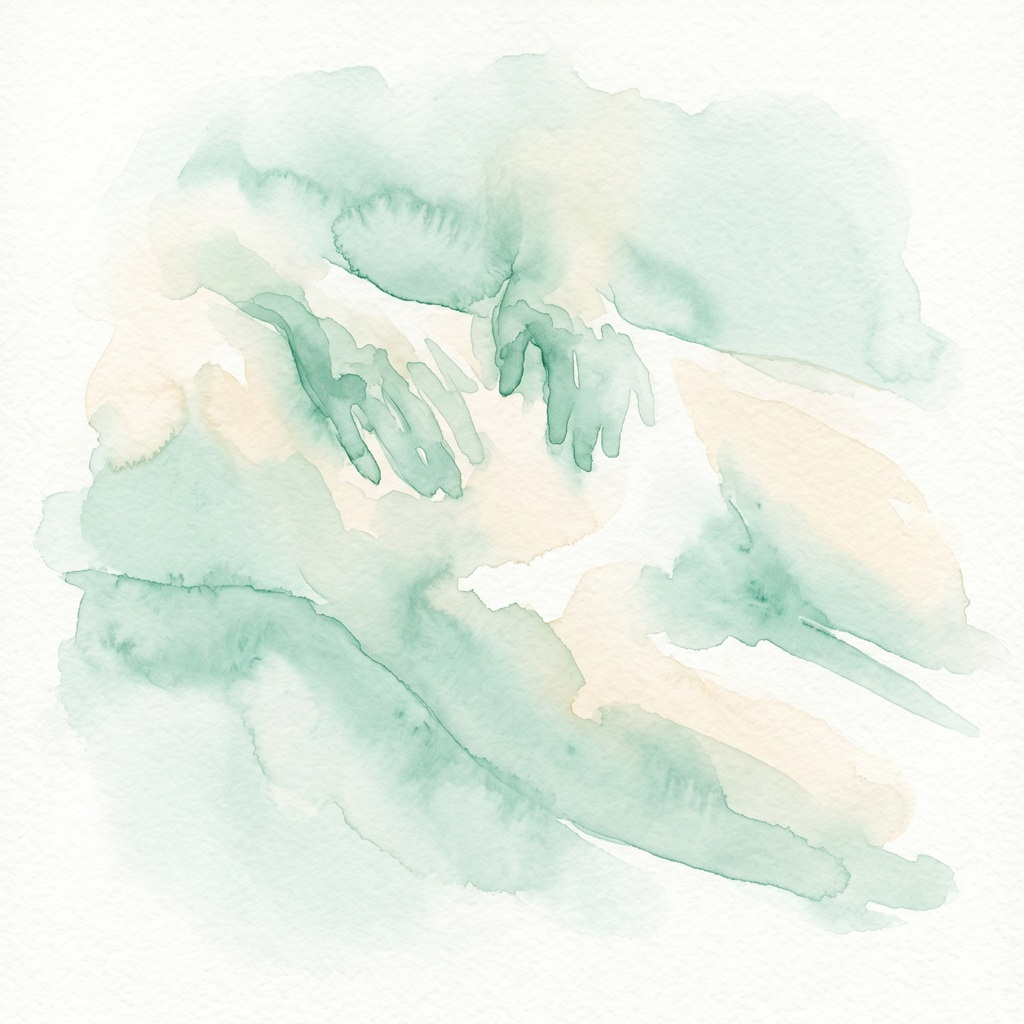
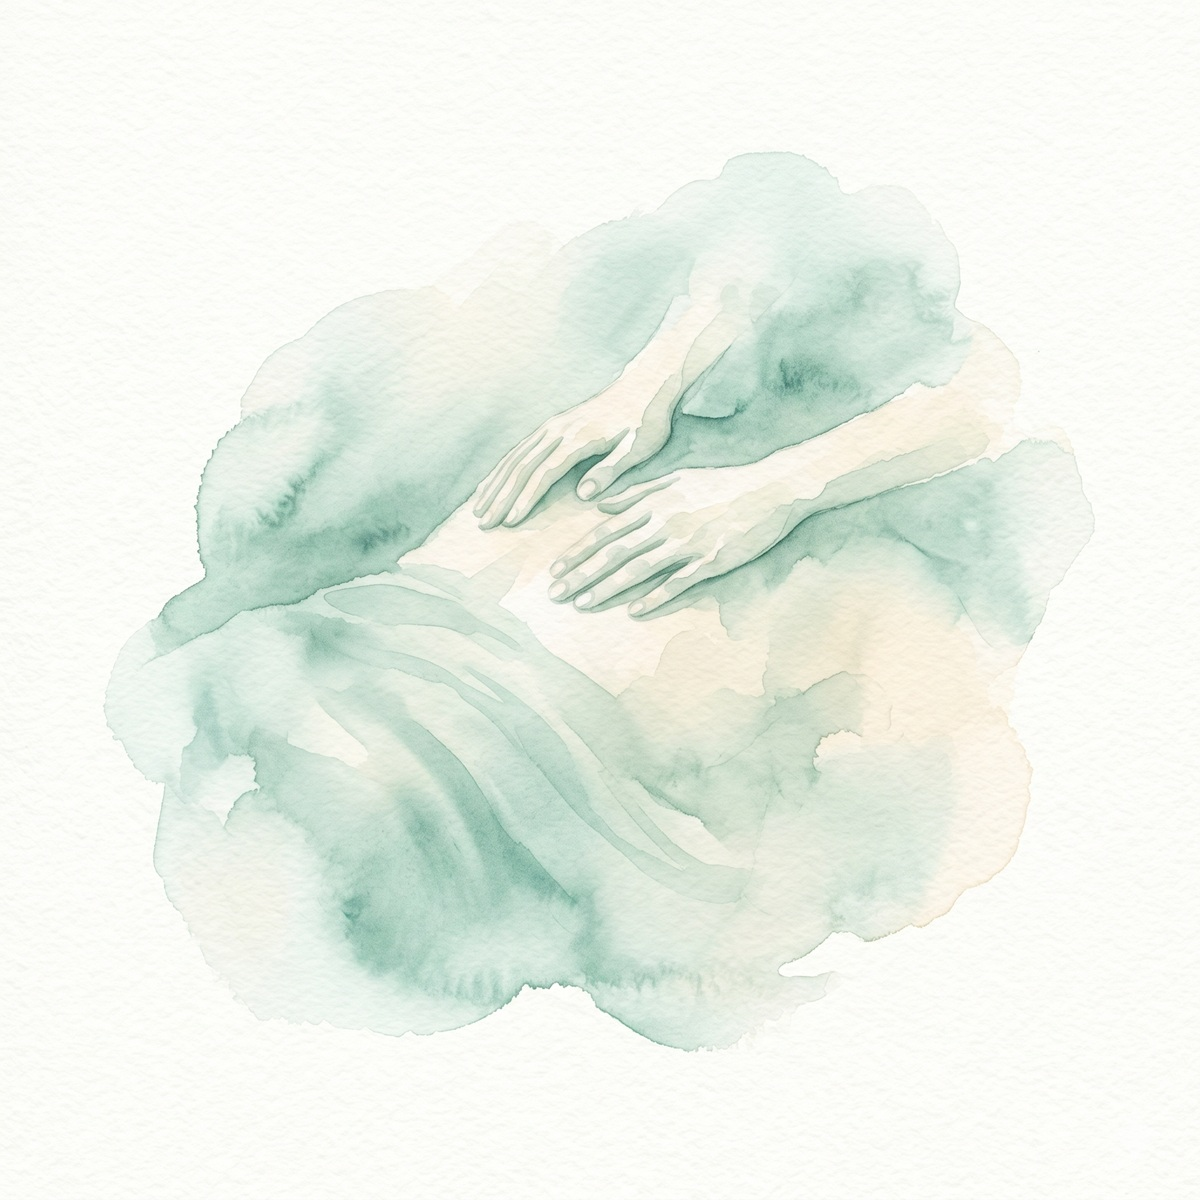
shiatsu image, title font, remove scroll snap, rearrange intro section

diff --git a/src/scripts/home-scroll.ts b/src/scripts/home-scroll.ts
@@ -2,14 +2,8 @@
  * home-scroll.ts — GSAP scroll choreography for the home page.
  *
  * Behaviours:
- * 1. Section-snap: wheel/touch "ticks" jump Lenis to the next major section
- *    with a graceful ease. In-between there is a brief lock so the snap
- *    completes before the next one fires — giving the "gentle chapter jump"
- *    feel while preserving Lenis inertia within a section.
- *
- * 2. Therapy triptych: image scale 1.0 → 1.08 on scroll (scrub).
- *
- * 3. Accent overlay: fades in/out as section enters viewport.
+ * 1. Therapy triptych: image scale 1.0 → 1.08 on scroll (scrub).
+ * 2. Accent overlay: fades in/out as section enters viewport.
  *
  * Disabled when prefers-reduced-motion: reduce.
  */
@@ -17,141 +11,6 @@ import gsap from 'gsap';
 import { ScrollTrigger } from 'gsap/ScrollTrigger';
 
 gsap.registerPlugin(ScrollTrigger);
-
-/* ─────────────────────────────────────────────────────────────
-   1. Section-snap (gentle chapter jumps)
-───────────────────────────────────────────────────────────── */
-
-function initSectionSnap() {
-  // Collect snap targets — identity + each therapy teaser + blog + closing
-  const SNAP_SELECTORS = [
-    '.identity',
-    '.therapy-teaser',
-    '.blog-teaser',
-    '.closing-section',
-  ] as const;
-
-  const sections = Array.from(
-    document.querySelectorAll<HTMLElement>(SNAP_SELECTORS.join(', ')),
-  ).filter(Boolean);
-
-  if (sections.length < 2) return;
-
-  const lenis = (window as unknown as Record<string, unknown>).__lenis as
-    | {
-        scrollTo: (target: number, opts: { duration: number; easing: (t: number) => number }) => void;
-        scroll: number;
-        on: (event: string, cb: (e: { scroll: number }) => void) => void;
-        stop: () => void;
-        start: () => void;
-      }
-    | undefined;
-
-  if (!lenis) return; // safety guard (reduced-motion path has no Lenis)
-
-  let isSnapping = false;
-  let currentIndex = 0;
-
-  /** Find which section contains the current scroll position */
-  const getCurrentIndex = (): number => {
-    const scroll = lenis.scroll;
-    let best = 0;
-    for (let i = 0; i < sections.length; i++) {
-      const top = sections[i].getBoundingClientRect().top + scroll;
-      if (scroll >= top - window.innerHeight * 0.3) best = i;
-    }
-    return best;
-  };
-
-  /** Custom easing — ease-out-quart for a buttery deceleration */
-  const easeOutQuart = (t: number) => 1 - Math.pow(1 - t, 4);
-
-  const snapTo = (index: number) => {
-    if (isSnapping) return;
-    index = Math.max(0, Math.min(sections.length - 1, index));
-    if (index === currentIndex && Math.abs(lenis.scroll - sections[index].getBoundingClientRect().top - lenis.scroll) < 4) return;
-
-    currentIndex = index;
-    isSnapping = true;
-
-    const targetY =
-      sections[index].getBoundingClientRect().top + lenis.scroll;
-
-    lenis.scrollTo(targetY, {
-      duration: 1.05,
-      easing: easeOutQuart,
-    });
-
-    // Release lock after animation completes + small buffer
-    setTimeout(() => {
-      isSnapping = false;
-    }, 1200);
-  };
-
-  // Sync currentIndex to scroll position (for when user resizes / reloads mid-page)
-  lenis.on('scroll', () => {
-    if (!isSnapping) {
-      currentIndex = getCurrentIndex();
-    }
-  });
-
-  /* Wheel handler — always preventDefault so Lenis never sees the raw
-     wheel event while snap is active. A snap fires when the accumulated
-     delta crosses the threshold (one deliberate scroll gesture).
-     Threshold is kept low (20px) so even slow trackpad swipes register. */
-  const WHEEL_THRESHOLD = 20; // px accumulated delta before a snap fires
-  let wheelAccum = 0;
-  let wheelTimer: ReturnType<typeof setTimeout> | null = null;
-
-  const onWheel = (e: WheelEvent) => {
-    // Always prevent default — snap is the only scroll driver on this page
-    e.preventDefault();
-
-    if (isSnapping) return;
-
-    wheelAccum += e.deltaY;
-
-    if (wheelTimer) clearTimeout(wheelTimer);
-    // Reset accumulator if no new wheel events arrive within 250ms
-    wheelTimer = setTimeout(() => { wheelAccum = 0; }, 250);
-
-    if (Math.abs(wheelAccum) >= WHEEL_THRESHOLD) {
-      const direction = wheelAccum > 0 ? 1 : -1;
-      wheelAccum = 0;
-      if (wheelTimer) clearTimeout(wheelTimer);
-      snapTo(currentIndex + direction);
-    }
-  };
-
-  /* Touch handler */
-  let touchStartY = 0;
-  const TOUCH_THRESHOLD = 50;
-
-  const onTouchStart = (e: TouchEvent) => {
-    touchStartY = e.touches[0].clientY;
-  };
-
-  const onTouchEnd = (e: TouchEvent) => {
-    if (isSnapping) return;
-    const delta = touchStartY - e.changedTouches[0].clientY;
-    if (Math.abs(delta) >= TOUCH_THRESHOLD) {
-      snapTo(currentIndex + (delta > 0 ? 1 : -1));
-    }
-  };
-
-  window.addEventListener('wheel', onWheel, { passive: false });
-  window.addEventListener('touchstart', onTouchStart, { passive: true });
-  window.addEventListener('touchend', onTouchEnd, { passive: true });
-
-  // Initial index sync after a frame
-  requestAnimationFrame(() => {
-    currentIndex = getCurrentIndex();
-  });
-}
-
-/* ─────────────────────────────────────────────────────────────
-   2. Therapy triptych scroll effects
-───────────────────────────────────────────────────────────── */
 
 function initHomeScroll() {
   const prefersReducedMotion = window.matchMedia('(prefers-reduced-motion: reduce)').matches;
@@ -208,13 +67,6 @@ function initHomeScroll() {
   });
 
   ScrollTrigger.refresh();
-
-  // Wire section snap after Lenis has had a frame to initialise
-  requestAnimationFrame(() => {
-    requestAnimationFrame(() => {
-      initSectionSnap();
-    });
-  });
 }
 
 initHomeScroll();
